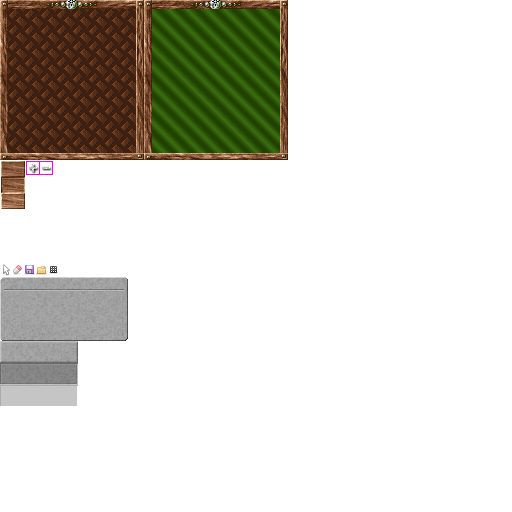
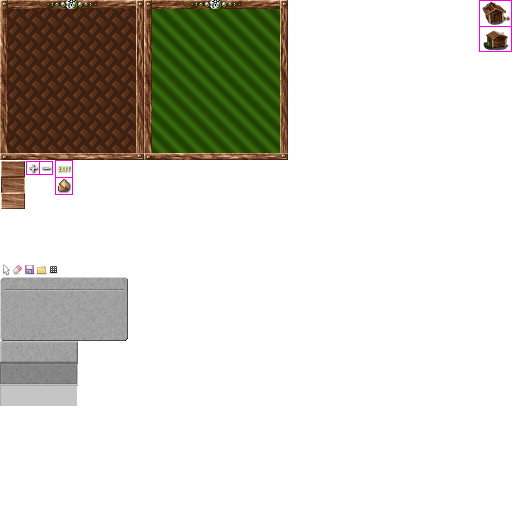
building window

Changed region(s): [[0.9375, 0.0, 1.0, 0.125], [0.0938, 0.3125, 0.1562, 0.375]]

diff --git a/src/uk/co/stikman/sett/CreateBuildingWindow.java b/src/uk/co/stikman/sett/CreateBuildingWindow.java
@@ -1,0 +1,68 @@
+package uk.co.stikman.sett;
+
+import java.util.ArrayList;
+import java.util.List;
+
+import uk.co.stikman.sett.client.renderer.GameView;
+import uk.co.stikman.sett.gfx.ui.Button;
+import uk.co.stikman.sett.gfx.ui.WindowPosition;
+import uk.co.stikman.sett.gfx.util.Rect;
+
+public class CreateBuildingWindow extends SettStandardWindow {
+
+	private Button						btnCancel;
+	private Button						btnFlipPage;
+
+	private List<CreateBuildingPage>	pages	= new ArrayList<>();
+
+
+	public CreateBuildingWindow(SettApp v, GameView gameview) {
+		super(v);
+		setGlass(true);
+		setWindowPosition(WindowPosition.CENTRE);
+		setBounds(new Rect(0, 0, 144, 160));
+		
+		CreateBuildingPage p = new CreateBuildingPage(this);
+		p.addBuilding("nb-woodcutter", 10, 40);
+		p.addBuilding("nb-forester", 50, 40);
+		pages.add(p);
+	}
+
+	@Override
+	public void init() {
+		super.init();
+		btnCancel = new Button(this, "cancel", getApp().getUIResources().getSprite("icon-exit"));
+		btnFlipPage = new Button(this, "flip", getApp().getUIResources().getSprite("icon-flip"));
+
+		Rect r = getClientBounds();
+		btnCancel.setBounds(new Rect(r.x + r.w - 18, r.y + r.h - 18, 18, 18));
+		btnFlipPage.setBounds(new Rect(r.x, r.y + r.h - 18, 18, 18));
+
+		btnCancel.setOnClick(b -> hide());
+		btnFlipPage.setOnClick(b -> flipPage());
+	}
+
+	private void flipPage() {
+
+	}
+
+	@Override
+	public void screenResize(int w, int h) {
+		super.screenResize(w, h);
+
+	}
+
+	@Override
+	public void render() {
+		super.render();
+		Rect r = getBounds();
+		
+		CreateBuildingPage pg = getCurrentPage();
+		pg.renderIn(getWindow(), r);
+	}
+
+	private CreateBuildingPage getCurrentPage() {
+		return pages.get(0);
+	}
+
+}

diff --git a/src/uk/co/stikman/sett/SettStandardWindow.java b/src/uk/co/stikman/sett/SettStandardWindow.java
@@ -9,15 +9,18 @@ import uk.co.stikman.sett.gfx.util.Rect;
 
 public class SettStandardWindow extends SimpleWindow {
 
-	private final SettApp app;
+	private final SettApp	app;
+	private int				borderLeft		= 8;
+	private int				borderRight		= 8;
+	private int				borderTop		= 9;
+	private int				borderBottom	= 7;
 
 	public SettStandardWindow(SettApp v) {
 		super(v.getUI(), v.getUIResources());
 		this.app = v;
 		GameResources res = v.getUIResources();
 		WindowTheming theme = new WindowTheming();
-		theme.setBackgroundSprite((RectSprite) res.findSprite("dlgbox3"), StretchMode.createSmart(8, 8, 9, 7));
-//		theme.setFont(res.findFont("pixelmix_8"));
+		theme.setBackgroundSprite((RectSprite) res.findSprite("dlgbox3"), StretchMode.createSmart(borderLeft, borderRight, borderTop, borderBottom));
 		theme.setFont(res.findFont("sett_8"));
 		theme.setTitleFont(res.findFont("sett_8"));
 		theme.setButtonSprite((RectSprite) res.findSprite("button1"));
@@ -36,9 +39,35 @@ public class SettStandardWindow extends SimpleWindow {
 		super.show();
 	}
 
-	public void close() {
+	@Override
+	public void hide() {
+		super.hide();
 		app.getUI().removeWindow(this);
 	}
 
-	
+	public SettApp getApp() {
+		return app;
+	}
+
+	public int getBorderLeft() {
+		return borderLeft;
+	}
+
+	public int getBorderRight() {
+		return borderRight;
+	}
+
+	public int getBorderTop() {
+		return borderTop;
+	}
+
+	public int getBorderBottom() {
+		return borderBottom;
+	}
+
+	public Rect getClientBounds() {
+		Rect r = getBounds();
+		return new Rect(borderLeft, borderTop, r.w - borderLeft - borderRight, r.h - borderTop - borderBottom);
+	}
+
 }

diff --git a/src/uk/co/stikman/sett/client/renderer/GameView.java b/src/uk/co/stikman/sett/client/renderer/GameView.java
@@ -13,7 +13,9 @@ import java.util.concurrent.TimeUnit;
 
 import uk.co.stikman.log.StikLog;
 import uk.co.stikman.sett.ClientGame;
+import uk.co.stikman.sett.CreateBuildingWindow;
 import uk.co.stikman.sett.FileSourceBatchClose;
+import uk.co.stikman.sett.LoadingGameWindow;
 import uk.co.stikman.sett.SettApp;
 import uk.co.stikman.sett.VoxelModel;
 import uk.co.stikman.sett.game.IsNodeObject;
@@ -98,6 +100,7 @@ public class GameView extends BaseView {
 	private static final boolean			FORCE_ALL_VISIBLE	= true;
 	private final ScanlineConverter			scanconverter		= new ScanlineConverter();
 	private boolean							FORCE_CHUNK_TEST	= true;
+	private CreateBuildingWindow createBuildingWnd;
 
 	public GameView(SettApp app, ClientGame game) {
 		super(app);
@@ -552,11 +555,16 @@ public class GameView extends BaseView {
 				// 
 				// clicked again, so do some context specific action
 				//
-				LOGGER.info("Go!");
+				buildAt(v);
 			} else {
 				selectionMarker.setPosition(v);
 			}
 		}
+	}
+
+	private void buildAt(Vector2i v) {
+		createBuildingWnd = new CreateBuildingWindow(this.getApp(), this);
+		createBuildingWnd.showModal();
 	}
 
 	//

diff --git a/src/uk/co/stikman/sett/CreateBuildingPage.java b/src/uk/co/stikman/sett/CreateBuildingPage.java
@@ -1,0 +1,38 @@
+package uk.co.stikman.sett;
+
+import java.util.ArrayList;
+import java.util.List;
+
+import uk.co.stikman.sett.gfx.Sprite;
+import uk.co.stikman.sett.gfx.Window3D;
+import uk.co.stikman.sett.gfx.util.Rect;
+
+public class CreateBuildingPage {
+
+	private static class Building {
+		int		x;
+		int		y;
+		Sprite	sprite;
+	}
+
+	private List<Building>			list	= new ArrayList<>();
+	private CreateBuildingWindow	wnd;
+
+	public CreateBuildingPage(CreateBuildingWindow wnd) {
+		this.wnd = wnd;
+	}
+
+	public void addBuilding(String sprite, int x, int y) {
+		Building b = new Building();
+		b.x = x;
+		b.y = y;
+		b.sprite = wnd.getApp().getUIResources().findSprite(sprite);
+		list.add(b);
+	}
+
+	public void renderIn(Window3D window, Rect bounds) {
+		for (Building b : list) 
+			window.drawSprite(b.sprite, (int) (b.x + bounds.x), (int) (b.y + bounds.y));
+	}
+
+}

diff --git a/src/uk/co/stikman/sett/gfx/ui/UI.java b/src/uk/co/stikman/sett/gfx/ui/UI.java
@@ -73,21 +73,21 @@ public class UI {
 		for (SimpleWindow w : getWindows().reverse())
 			if (w.mouseMove(x - (int) w.getBounds().x, y - (int) w.getBounds().y))
 				return true;
-		return false;
+		return !modalStack.isEmpty();
 	}
 
 	public boolean handleMouseDown(int x, int y, int button) {
 		for (SimpleWindow w : getWindows().reverse())
 			if (w.mouseDown(x - (int) w.getBounds().x, y - (int) w.getBounds().y, button))
 				return true;
-		return false;
+		return !modalStack.isEmpty();
 	}
 
 	public boolean handleMouseUp(int x, int y, int button) {
 		for (SimpleWindow w : getWindows().reverse())
 			if (w.mouseUp(x - (int) w.getBounds().x, y - (int) w.getBounds().y, button))
 				return true;
-		return false;
+		return !modalStack.isEmpty();
 	}
 
 	public void handleResize(int w, int h) {

diff --git a/src/uk/co/stikman/sett/gfx/Window3D.java b/src/uk/co/stikman/sett/gfx/Window3D.java
@@ -74,6 +74,7 @@ public abstract class Window3D {
 
 	private Vector2i							cur2DOffset					= new Vector2i(0, 0);
 	private LinkedList<Vector2i>				offsetStack2D				= new LinkedList<>();
+	private Rect								tmpR						= new Rect();
 
 	public Window3D(int width, int height, boolean linear) {
 		this.width = width;
@@ -251,6 +252,10 @@ public abstract class Window3D {
 			e.setMesh(m);
 		}
 		e.getMesh().render(0);
+	}
+
+	public void drawSprite(Sprite sprite, int x, int y) {
+		sprite.renderLayer(this, 0, x, y, -1, -1, 0, 0, VectorColours.WHITE);
 	}
 
 	/**

diff --git a/src/uk/co/stikman/sett/gfx/Sprite.java b/src/uk/co/stikman/sett/gfx/Sprite.java
@@ -225,7 +225,7 @@ public abstract class Sprite {
 		}
 	}
 
-	public void renderLayer(Window3DNative window, int layer, Rect rect, int angle, int time, Vector4 colour) {
+	public void renderLayer(Window3D window, int layer, Rect rect, int angle, int time, Vector4 colour) {
 		renderLayer(window, layer, (int) rect.x, (int) rect.y, (int) rect.w, (int) rect.h, angle, time, colour);
 	}
 
